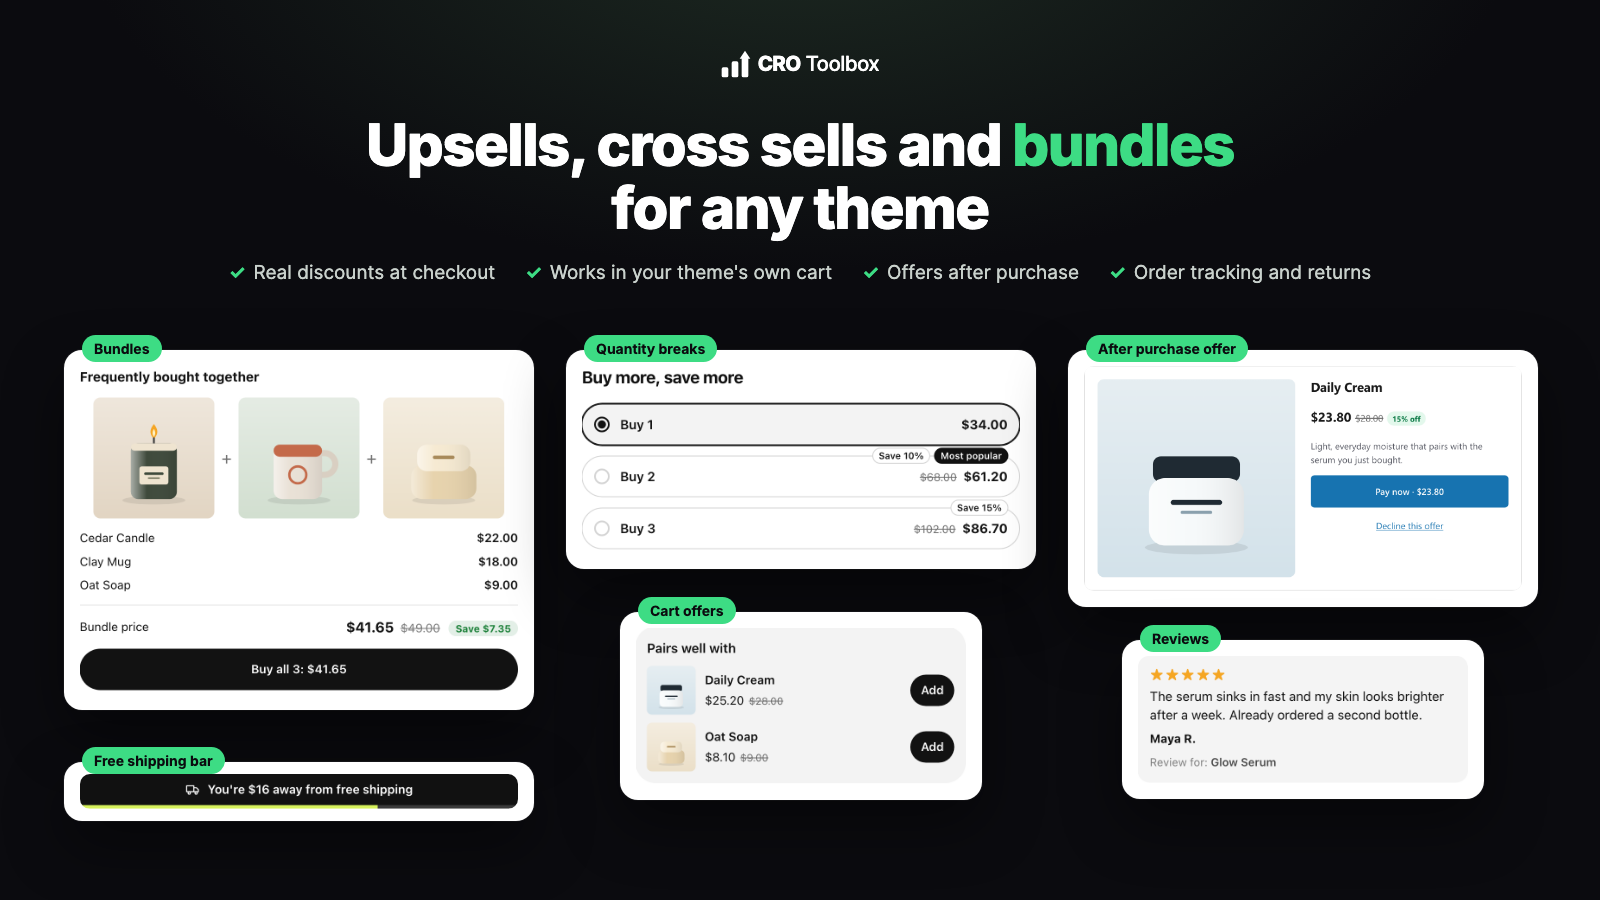
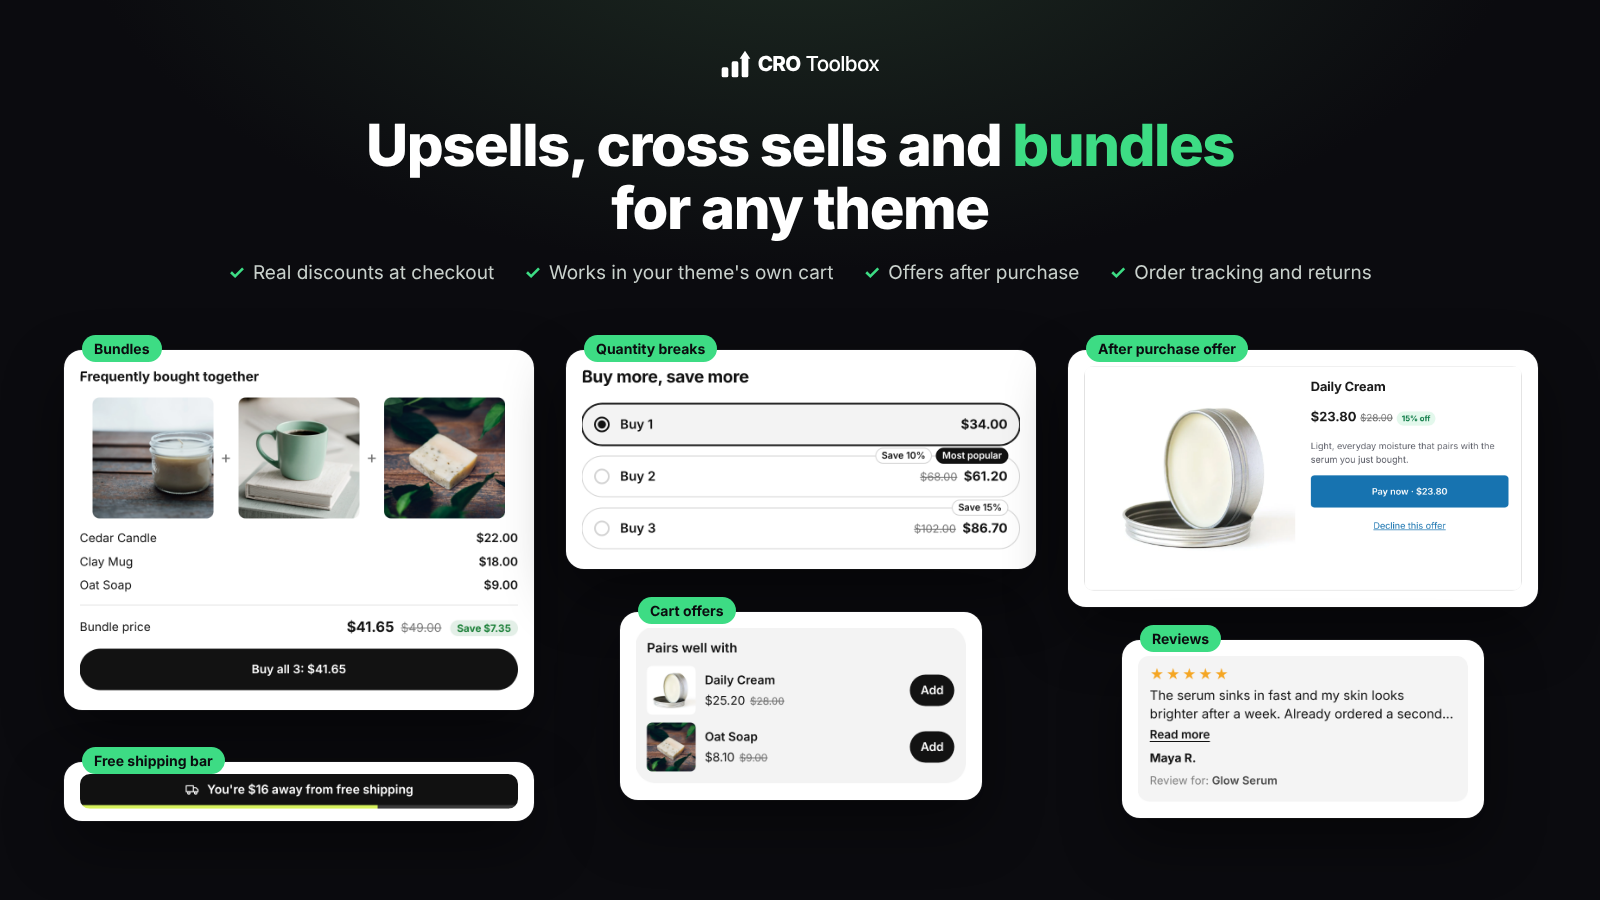
Docs: listing images from the demos with real photos (feature image and 6 storefront screenshots)
Claude-Session: https://claude.ai/code/session_01Ayra3thzpB7x3YYm7G1avg

diff --git a/branding/listing/templates/screenshot-5-product-page.html b/branding/listing/templates/screenshot-5-product-page.html
@@ -1,0 +1,18 @@
+<!doctype html>
+<!-- Listing screenshot (see screenshot-example.html for the rules). Render: scripts/listing/render.sh screenshot-5-product-page -->
+<html><head><meta charset="utf-8"><link rel="stylesheet" href="../styles.css"></head>
+<body>
+  <div class="side">
+    <img class="logo" src="../logo.svg" alt="">
+    <h1>Reviews and delivery dates <span>where</span> shoppers decide</h1>
+    <p>Review cards and star ratings next to the price, and a delivery estimate from your own cut off times.</p>
+    <div class="checks">
+      <div><b>✓</b>Photo and video reviews</div>
+      <div><b>✓</b>Delivery dates per country</div>
+      <div><b>✓</b>Ready made designs</div>
+    </div>
+  </div>
+
+  <div class="card" style="left:760px; top:200px; width:700px"><span class="tag">Product reviews</span><img src="../widgets/review.png"></div>
+  <div class="card thin" style="left:820px; top:560px; width:700px"><span class="tag">Delivery estimate</span><img src="../widgets/delivery.png"></div>
+</body></html>

diff --git a/branding/listing/templates/screenshot-1-bundles.html b/branding/listing/templates/screenshot-1-bundles.html
@@ -1,0 +1,18 @@
+<!doctype html>
+<!-- Listing screenshot (see screenshot-example.html for the rules). Render: scripts/listing/render.sh screenshot-1-bundles -->
+<html><head><meta charset="utf-8"><link rel="stylesheet" href="../styles.css"></head>
+<body>
+  <div class="side">
+    <img class="logo" src="../logo.svg" alt="">
+    <h1>Bundles shoppers <span>build</span> on the product page</h1>
+    <p>Six bundle types, from frequently bought together to mix and match boxes, applied as real discounts at checkout.</p>
+    <div class="checks">
+      <div><b>✓</b>Each item comes off stock</div>
+      <div><b>✓</b>Ready made designs</div>
+      <div><b>✓</b>Works in your theme</div>
+    </div>
+  </div>
+
+  <div class="card" style="left:690px; top:170px; width:500px"><span class="tag">Frequently bought together</span><img src="../widgets/fbt.png"></div>
+  <div class="card" style="left:1215px; top:110px; width:330px"><span class="tag">Mix and match</span><img src="../widgets/mixmatch.png"></div>
+</body></html>

diff --git a/branding/listing/templates/screenshot-3-cart.html b/branding/listing/templates/screenshot-3-cart.html
@@ -1,0 +1,18 @@
+<!doctype html>
+<!-- Listing screenshot (see screenshot-example.html for the rules). Render: scripts/listing/render.sh screenshot-3-cart -->
+<html><head><meta charset="utf-8"><link rel="stylesheet" href="../styles.css"></head>
+<body>
+  <div class="side">
+    <img class="logo" src="../logo.svg" alt="">
+    <h1>Offers in your theme's <span>own</span> cart</h1>
+    <p>Cross sells inside the cart drawer, a free shipping bar and a discount code box, without a second cart.</p>
+    <div class="checks">
+      <div><b>✓</b>Shopper picks what to add</div>
+      <div><b>✓</b>Free shipping goal</div>
+      <div><b>✓</b>Discount code box</div>
+    </div>
+  </div>
+
+  <div class="card thin" style="left:740px; top:190px; width:780px"><span class="tag">Free shipping bar</span><img src="../widgets/ship.png"></div>
+  <div class="card" style="left:860px; top:360px; width:560px"><span class="tag">Cart offers</span><img src="../widgets/cart.png"></div>
+</body></html>

diff --git a/branding/listing/templates/screenshot-4-after-purchase.html b/branding/listing/templates/screenshot-4-after-purchase.html
@@ -1,0 +1,18 @@
+<!doctype html>
+<!-- Listing screenshot (see screenshot-example.html for the rules). Render: scripts/listing/render.sh screenshot-4-after-purchase -->
+<html><head><meta charset="utf-8"><link rel="stylesheet" href="../styles.css"></head>
+<body>
+  <div class="side">
+    <img class="logo" src="../logo.svg" alt="">
+    <h1>Offers <span>after</span> payment</h1>
+    <p>A one click offer added to the same order, then a thank you page that brings the next order.</p>
+    <div class="checks">
+      <div><b>✓</b>No card details again</div>
+      <div><b>✓</b>Next order discount code</div>
+      <div><b>✓</b>Same shipment</div>
+    </div>
+  </div>
+
+  <div class="card" style="left:720px; top:110px; width:640px"><span class="tag">After purchase offer</span><img src="../widgets/post.png"></div>
+  <div class="card" style="left:1000px; top:520px; width:540px"><span class="tag">Thank you page</span><img src="../widgets/thanks.png"></div>
+</body></html>

diff --git a/branding/listing/templates/screenshot-6-sections.html b/branding/listing/templates/screenshot-6-sections.html
@@ -1,0 +1,17 @@
+<!doctype html>
+<!-- Listing screenshot (see screenshot-example.html for the rules). Render: scripts/listing/render.sh screenshot-6-sections -->
+<html><head><meta charset="utf-8"><link rel="stylesheet" href="../styles.css"></head>
+<body>
+  <div class="side">
+    <img class="logo" src="../logo.svg" alt="">
+    <h1>Sections that <span>fit</span> any theme</h1>
+    <p>Benefits rows, comparison tables, guarantees and more, placed in the theme editor with a live preview.</p>
+    <div class="checks">
+      <div><b>✓</b>Online Store 2.0 themes</div>
+      <div><b>✓</b>No theme code edited</div>
+      <div><b>✓</b>Templates for each section</div>
+    </div>
+  </div>
+
+  <div class="card thin" style="left:700px; top:330px; width:860px"><span class="tag">Benefits row</span><img src="../widgets/benefits.png"></div>
+</body></html>

diff --git a/branding/listing/templates/screenshot-2-upsells.html b/branding/listing/templates/screenshot-2-upsells.html
@@ -1,0 +1,17 @@
+<!doctype html>
+<!-- Listing screenshot (see screenshot-example.html for the rules). Render: scripts/listing/render.sh screenshot-2-upsells -->
+<html><head><meta charset="utf-8"><link rel="stylesheet" href="../styles.css"></head>
+<body>
+  <div class="side">
+    <img class="logo" src="../logo.svg" alt="">
+    <h1>Quantity breaks next to <span>Add to cart</span></h1>
+    <p>Buy 2 or Buy 3 tiers with a saving shoppers can see, and a size picker for each item.</p>
+    <div class="checks">
+      <div><b>✓</b>Discount applied at checkout</div>
+      <div><b>✓</b>Size upgrades too</div>
+      <div><b>✓</b>Ready made designs</div>
+    </div>
+  </div>
+
+  <div class="card" style="left:740px; top:250px; width:780px"><span class="tag">Quantity breaks</span><img src="../widgets/qty.png"></div>
+</body></html>

diff --git a/branding/listing/README.md b/branding/listing/README.md
@@ -47,11 +47,26 @@ handing it over.
 New screenshot: copy `templates/screenshot-example.html` to `templates/screenshot-<n>-<name>.html`, change the
 headline, sentence, checks and widget, add a crop to `widgets.txt` if needed, then capture and render.
 
-Needs Google Chrome (set `CHROME=/path` if it's not found) and, off macOS, ImageMagick for cropping.
+Needs Google Chrome (set `CHROME=/path` if it's not found) and, off macOS, ImageMagick for cropping. On Linux,
+headless Chrome lays the page out a little shorter than `--window-size`, which leaves a white strip at the
+bottom of `render.sh` output: render with an exact 1600 x 900 viewport there instead (Playwright
+`page.setViewportSize`, then a screenshot). Chrome as root also needs `--no-sandbox` (wrap it in a small
+script and pass it as `CHROME`).
 
 ## Status
 
 - Feature image approved (`branding/feature/feature-banner.png`), built from the current demos.
-- Waiting: Omar wants the demos to show a real product collection's photos first. After that: capture again,
-  render the feature image again and design the 6 screenshots (`docs/WORKBOARD.md`, "App Store listing images").
+- 2026-10-20: demos show real product photos (`demos/IMAGES.md`). Widgets re-captured (4 new: `mixmatch`,
+  `benefits`, `delivery`, `thanks`), feature image rendered again, and the 6 screenshots designed:
+  `templates/screenshot-1-bundles.html` to `screenshot-6-sections.html`, rendered to
+  `branding/screenshots/storefront/`. Waiting on Omar to look at them and upload.
+
+## Screenshot alt text (for the listing editor)
+
+1. `1-bundles.png`: "Frequently bought together and mix and match bundles on a product page"
+2. `2-upsells.png`: "Quantity breaks with a saving next to Add to cart"
+3. `3-cart.png`: "Free shipping bar and cross sell offers in the theme's cart drawer"
+4. `4-after-purchase.png`: "One click offer after payment and a next order code on the thank you page"
+5. `5-product-page.png`: "A review card and a delivery estimate on a product page"
+6. `6-sections.png`: "A benefits row section in a store theme"
 - Uploading is done by Omar in the listing editor (the browser pane cannot upload files).

diff --git a/docs/WORKBOARD.md b/docs/WORKBOARD.md
@@ -150,10 +150,14 @@ Ticked = fixed and merged (#159 to #172); Omar re-checks on Testing 3 when he ne
 
 - [x] Feature image style approved: `branding/feature/feature-banner.png` (dark green to black background, logo,
       headline, real widgets as white cards with green tags; design system: `branding/listing/README.md`). Keep this style.
-- [ ] Demos (`demos/`): replace the drawn products (candle, serum, mug, soap) with a real product collection's photos.
-      Omar decides when the demos are final.
-- [ ] After that: re-capture the widgets, redo the feature image, and design all 6 listing screenshots (1600x900) in
-      the same style, then Omar uploads them. Don't upload the current feature image before then.
+- [x] Demos (`demos/`): real product photos (free Burst photos, `demos/IMAGES.md`, #219). Omar: say if the demos
+      are final or a photo should change.
+- [x] Widgets re-captured, feature image rendered again (`branding/feature/feature-banner.png`) and 6 screenshots designed
+      in the same style: `branding/screenshots/storefront/1-bundles.png` to `6-sections.png` (templates in
+      `branding/listing/templates/screenshot-*.html`; 2026-10-20, website session)
+- [ ] Omar: look at the 7 images, then upload them in the listing editor (feature image, then the screenshots in order,
+      alt text in `branding/listing/README.md`). Choose these or the app screenshots in `branding/screenshots/listing/`
+      (or mix them: up to 6 in total).
 
 ## Header back, 2026-10-19 (#208, cro-toolbox-40)
 
